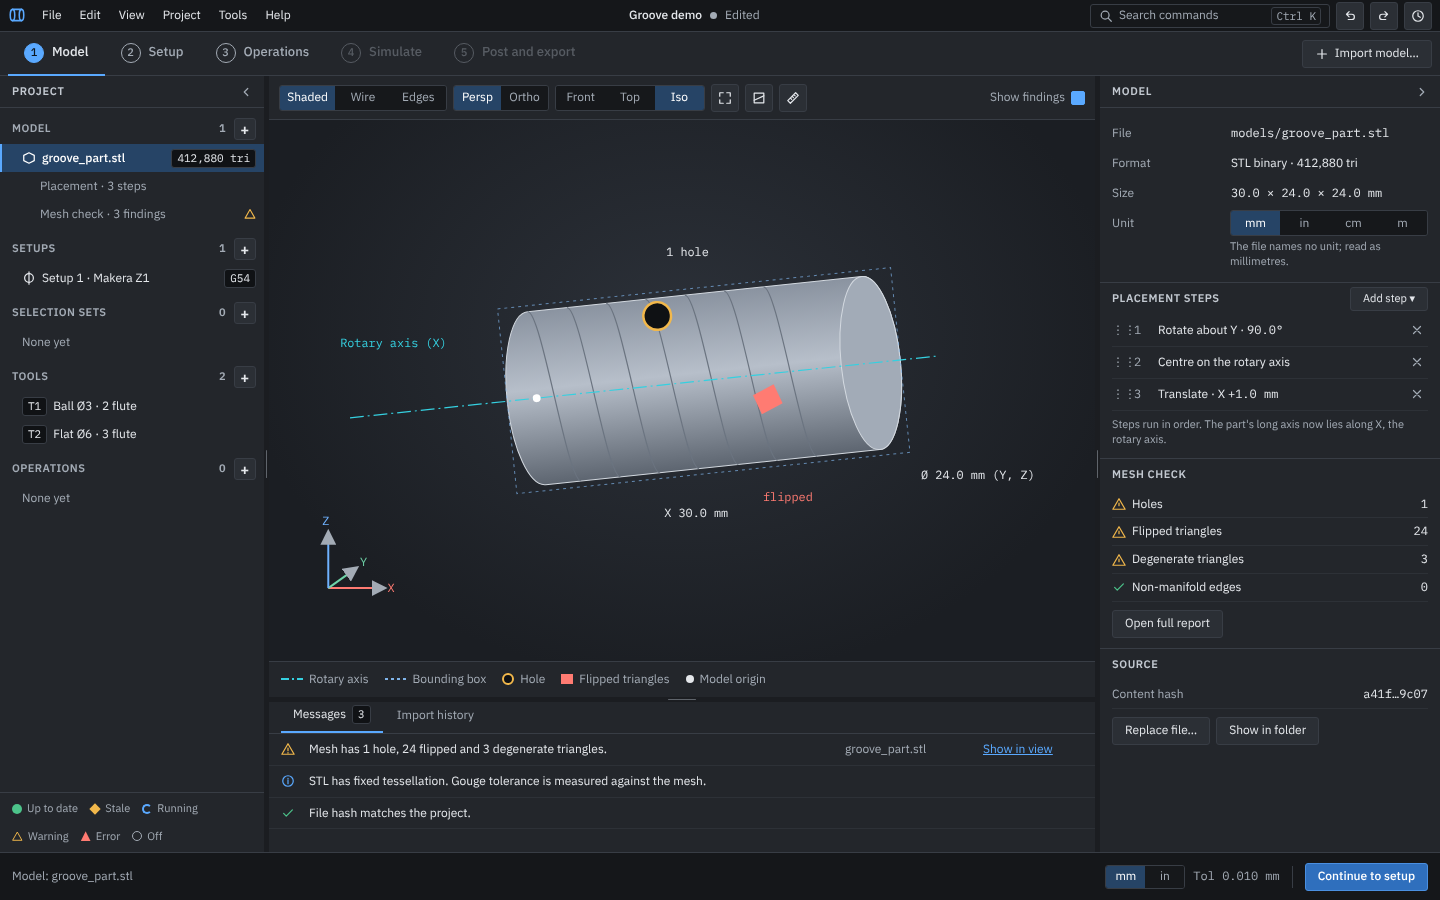
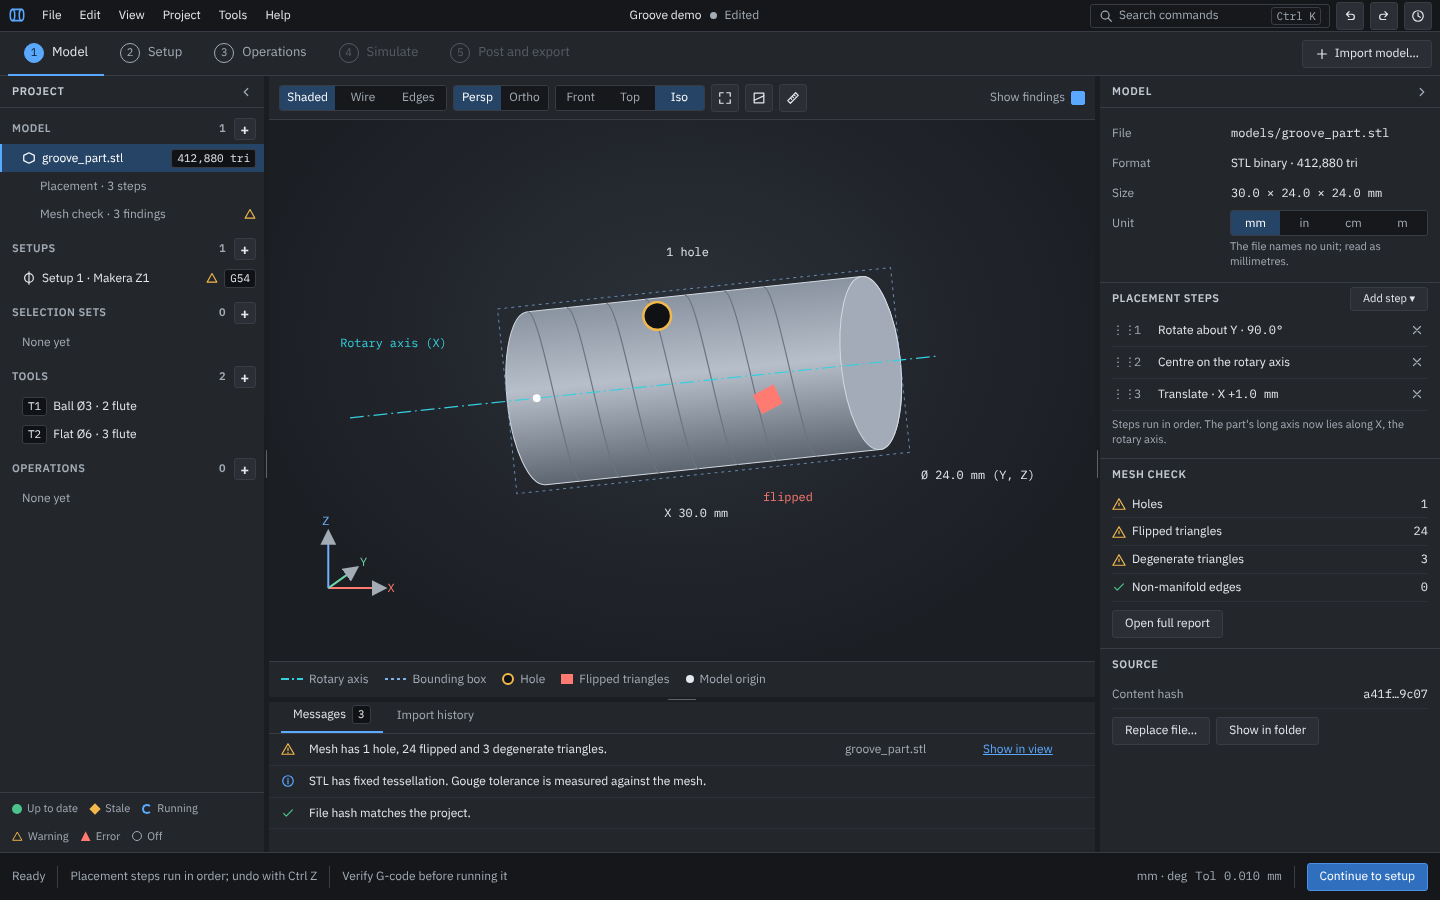
Lane X2: re-render the Model and Setup boards (images 01 and 02, OI-342)
Model board: the setup row carries the Warning mark for the machine's
unconfirmed values (specification section 6, D9). Setup board: the
Workholding tree row with its count chip and the fifth inspector section,
Workholding and tabs (11.7). Both footers follow section 10: Ready, a step
note and the short G-code notice (D2), and "mm · deg" (D4).

Rendered in headless Chromium at 1440 x 900, 100% scale, with the IBM Plex
files lane X7a bundles (Regular and SemiBold; weight 500 falls back to them).

Claude-Session: https://claude.ai/code/session_01NXwmMVyKiC3m8WygP3nz99

diff --git a/docs/ui-design/mockups/source/Model.dc.html b/docs/ui-design/mockups/source/Model.dc.html
@@ -118,7 +118,7 @@ button{font:inherit;color:inherit;cursor:pointer}
         <div class="tr l2 mu"><span class="nm">Placement · 3 steps</span></div>
         <div class="tr l2 mu"><span class="nm">Mesh check · 3 findings</span><span title="Warning: 3 mesh findings" style="display:inline-flex"><svg class="ib" style="color:var(--wn);width:12px;height:12px" viewBox="0 0 16 16" aria-hidden="true"><path d="M8 2l6.5 11.5h-13z"/></svg></span></div>
         <div class="grp"><span>SETUPS</span><span class="r"><span>1</span><a class="add" href="Setup.dc.html" title="Add a setup" aria-label="Add a setup">+</a></span></div>
-        <div class="tr l1"><svg class="ib" viewBox="0 0 16 16"><circle cx="8" cy="8" r="5"/><path d="M8 1v14"/></svg><span class="nm">Setup 1 · Makera Z1</span><span class="chip m">G54</span></div>
+        <div class="tr l1"><svg class="ib" viewBox="0 0 16 16"><circle cx="8" cy="8" r="5"/><path d="M8 1v14"/></svg><span class="nm">Setup 1 · Makera Z1</span><span title="Warning: some machine values are not confirmed on the machine" style="display:inline-flex"><svg class="ib" style="color:var(--wn);width:12px;height:12px" viewBox="0 0 16 16" aria-hidden="true"><path d="M8 2l6.5 11.5h-13z"/></svg></span><span class="chip m">G54</span></div>
         <div class="grp"><span>SELECTION SETS</span><span class="r"><span>0</span><a class="add" href="SelectionSets.dc.html" title="New selection set" aria-label="New selection set">+</a></span></div>
         <div class="tr l1 mu"><span class="nm">None yet</span></div>
         <div class="grp"><span>TOOLS</span><span class="r"><span>2</span><a class="add" href="ToolLibrary.dc.html" title="Add a tool from the library" aria-label="Add a tool">+</a></span></div>
@@ -209,9 +209,9 @@ button{font:inherit;color:inherit;cursor:pointer}
   </div>
 
   <div class="ft">
-    <div class="g"><span>Model: groove_part.stl</span></div>
+    <div class="g"><span>Ready</span><span class="sep"></span><span>Placement steps run in order; undo with Ctrl Z</span><span class="sep"></span><span>Verify G-code before running it</span></div>
     <div class="g">
-      <div class="seg" style="width:80px;height:24px" title="Display units"><span class="on">mm</span><span>in</span></div>
+      <span title="Display units">mm · deg</span>
       <span class="m">Tol 0.010 mm</span>
       <span class="sep"></span>
       <a class="btn pri" href="Setup.dc.html" title="Continue to setup (Alt 2)">Continue to setup</a>

diff --git a/docs/ui-design/mockups/source/Setup.dc.html b/docs/ui-design/mockups/source/Setup.dc.html
@@ -123,6 +123,7 @@ button{font:inherit;color:inherit;cursor:pointer}
         <div class="tr l2 mu"><span class="nm">Stock · cylinder Ø26 × 32</span></div>
         <div class="tr l2 mu"><span class="nm">Part position</span></div>
         <div class="tr l2 mu"><span class="nm">Work offset and clearance</span></div>
+        <div class="tr l2 mu"><span class="nm">Workholding</span><span class="chip">1 held · 2 tabs</span></div>
         <div class="grp"><span>SELECTION SETS</span><span class="r"><span>3</span><a class="add" href="SelectionSets.dc.html" title="New selection set" aria-label="New selection set">+</a></span></div>
         <div class="tr l1"><span style="width:12px;height:12px;border-radius:2px;background:#2d6cb5;flex:none"></span><span class="nm">Groove floor</span></div>
         <div class="tr l1"><span style="width:12px;height:12px;border-radius:2px;background:#a04a46;flex:none"></span><span class="nm">Rim (avoid)</span></div>
@@ -243,14 +244,15 @@ button{font:inherit;color:inherit;cursor:pointer}
           <div class="row"><span class="lb">Safe radius</span><div class="fld"><b class="m" style="font-weight:400">20.0</b><span class="u">mm</span></div></div>
           <div class="row"><span class="lb">Safe Z</span><div class="fld"><b class="m" style="font-weight:400">50.0</b><span class="u">mm above axis</span></div></div>
         </div></div>
+        <div class="sec"><div class="sh"><span style="display:flex;align-items:center;gap:6px"><svg class="ib" viewBox="0 0 16 16" aria-hidden="true"><path d="M6 4l4 4-4 4"/></svg>Workholding and tabs</span><span class="chip" style="text-transform:none;letter-spacing:0;font-weight:400">1 held · 2 tabs</span></div></div>
       </div>
     </div>
   </div>
 
   <div class="ft">
-    <div class="g"><span>Setup 1 selected</span></div>
+    <div class="g"><span>Ready</span><span class="sep"></span><span>Edits are applied when you leave a field; undo with Ctrl Z</span><span class="sep"></span><span>Verify G-code before running it</span></div>
     <div class="g">
-      <div class="seg" style="width:80px;height:24px" title="Display units"><span class="on">mm</span><span>in</span></div>
+      <span title="Display units">mm · deg</span>
       <span class="m">Tol 0.010 mm</span>
       <span style="color:var(--wn)">Z1 axis height unconfirmed</span>
       <span class="sep"></span>
